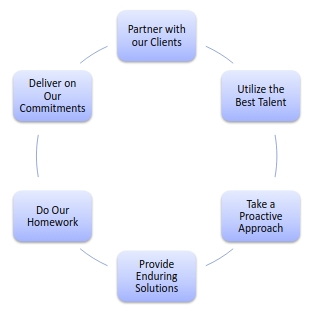
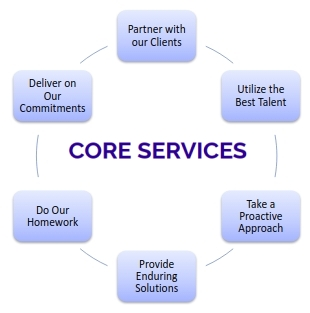
iteration2

Changed region(s): [[0.2032, 0.4313, 0.8129, 0.5176]]

diff --git a/home.html b/home.html
@@ -156,12 +156,7 @@
         <div class="container">
           <div class="section-header">
             <h2>Services</h2>
-            <p>
-              Sed tamen tempor magna labore dolore dolor sint tempor duis magna
-              elit veniam aliqua esse amet veniam enim export quid quid veniam
-              aliqua eram noster malis nulla duis fugiat culpa esse aute nulla
-              ipsum velit export irure minim illum fore
-            </p>
+            <p></p>
           </div>
 
           <div class="row">
@@ -185,20 +180,6 @@
                   Our PM services include Master Planning, full life-cycle of
                   Pre-Contract and Post-Contract planning, engineering, and
                   inspection for major design and construction projects.
-                </p>
-              </div>
-            </div>
-
-            <div class="col-lg-6">
-              <div class="box wow fadeInLeft" data-wow-delay="0.2s">
-                <div class="icon"><i class="fa fa-shopping-bag"></i></div>
-                <h4 class="title"><a href="">Construction Management</a></h4>
-                <p class="description">
-                  We provide high quality client representation for completion
-                  of projects on-time and within budget. We also work with
-                  leading-edge technologies for application of advanced
-                  information and communication technology to the project
-                  development industry.
                 </p>
               </div>
             </div>
@@ -228,90 +209,88 @@
                 </p>
               </div>
             </div>
+
+            <div class="col-lg-12">
+              <div class="box wow fadeInLeft" data-wow-delay="0.2s">
+                <div class="icon"><i class="fa fa-shopping-bag"></i></div>
+                <h4 class="title"><a href="">Construction Management</a></h4>
+                <p class="description">
+                  We provide high quality client representation for completion
+                  of projects on-time and within budget. We also work with
+                  leading-edge technologies for application of advanced
+                  information and communication technology to the project
+                  development industry.
+                </p>
+              </div>
+            </div>
+
           </div>
         </div>
       </section>
       <!-- #services -->
 
-      <!--==========================
-        Clients Section
-      ============================-->
-      <section id="clients" class="wow fadeInUp">
+      <section id="about" class="wow fadeInUp">
         <div class="container">
           <div class="section-header">
             <h2>We Offer</h2>
-            <p>
-              Sed tamen tempor magna labore dolore dolor sint tempor duis magna
-              elit veniam aliqua esse amet veniam enim export quid quid veniam
-              aliqua eram noster malis nulla duis fugiat culpa esse aute nulla
-              ipsum velit export irure minim illum fore
-            </p>
           </div>
-          <div class="content">
-            <ul style="list-style: none;">
-              <li>
-                <i
-                  class="ion-android-checkmark-circle"
-                  style="font-size: 20px;
-                padding-right: 4px;
-                color: #50d8af;"
-                ></i>
-                Development Management
-              </li>
-              <li>
-                <i
-                  class="ion-android-checkmark-circle"
-                  style="font-size: 20px;
-                padding-right: 4px;
-                color: #50d8af;"
-                ></i>
-                Engineering Solutions
-              </li>
-              <li>
-                <i
-                  class="ion-android-checkmark-circle"
-                  style="font-size: 20px;
-                padding-right: 4px;
-                color: #50d8af;"
-                ></i>
-                Construction Management
-              </li>
-              <li>
-                <i
-                  class="ion-android-checkmark-circle"
-                  style="font-size: 20px;
-                padding-right: 4px;
-                color: #50d8af;"
-                ></i>
-                Project Management
-              </li>
-              <li>
-                <i
-                  class="ion-android-checkmark-circle"
-                  style="font-size: 20px;
-                padding-right: 4px;
-                color: #50d8af;"
-                ></i>
-                Strategic Planning
-              </li>
-            </ul>
-          </div>
-        </div>
-      </section>
-      <!-- #clients -->
-
-      <!--==========================
-        Core Services Section
-      ============================-->
-      <section id="about" class="wow fadeInUp">
-        <div class="container">
           <div class="row">
             <div class="col-lg-6">
+              <div class="content">
+                <ul style="list-style: none;">
+                  <li>
+                    <i
+                      class="ion-android-checkmark-circle"
+                      style="font-size: 20px;
+                    padding-right: 4px;
+                    color: #50d8af;"
+                    ></i>
+                    Development Management
+                  </li>
+                  <li>
+                    <i
+                      class="ion-android-checkmark-circle"
+                      style="font-size: 20px;
+                    padding-right: 4px;
+                    color: #50d8af;"
+                    ></i>
+                    Engineering Solutions
+                  </li>
+                  <li>
+                    <i
+                      class="ion-android-checkmark-circle"
+                      style="font-size: 20px;
+                    padding-right: 4px;
+                    color: #50d8af;"
+                    ></i>
+                    Construction Management
+                  </li>
+                  <li>
+                    <i
+                      class="ion-android-checkmark-circle"
+                      style="font-size: 20px;
+                    padding-right: 4px;
+                    color: #50d8af;"
+                    ></i>
+                    Project Management
+                  </li>
+                  <li>
+                    <i
+                      class="ion-android-checkmark-circle"
+                      style="font-size: 20px;
+                    padding-right: 4px;
+                    color: #50d8af;"
+                    ></i>
+                    Strategic Planning
+                  </li>
+                </ul>
+              </div>
+              <br>
+              <hr size="15" style="border-color:#50d8af; width:30%; height:25px;">
               <img src="img/weoffer.jpg" alt="" width="90%" />
             </div>
 
             <div class="col-lg-6 content">
-              <h2>CORE SERVICES</h2>
               <h3 style="font-weight: 600;">
                 - Preparation of Project Feasibility studies and Business case
                 <br />- Pre - Contract works
@@ -379,29 +358,12 @@
         Our Portfolio Section
       ============================-->
       <section id="portfolio" class="wow fadeInUp">
-        <div class="container">
-          <div class="section-header">
-            <h2>Our Past Contribution</h2>
-            <p>
-              Sed tamen tempor magna labore dolore dolor sint tempor duis magna
-              elit veniam aliqua esse amet veniam enim export quid quid veniam
-              aliqua eram noster malis nulla duis fugiat culpa esse aute nulla
-              ipsum velit export irure minim illum fore
-            </p>
-          </div>
-        </div>
-
-        <div class="container-fluid">
+        <div class="container-fluid" style="opacity: 0.65;">
           <div class="row no-gutters">
             <div class="col-lg-3 col-md-4">
               <div class="portfolio-item wow fadeInUp">
                 <a href="img/portfolio/1.png" class="portfolio-popup">
                   <img src="img/portfolio/1.png" alt="" />
-                  <div class="portfolio-overlay">
-                    <div class="portfolio-info">
-                      <h2 class="wow fadeInUp">Portfolio Item 1</h2>
-                    </div>
-                  </div>
                 </a>
               </div>
             </div>
@@ -410,11 +372,6 @@
               <div class="portfolio-item wow fadeInUp">
                 <a href="img/portfolio/2.png" class="portfolio-popup">
                   <img src="img/portfolio/2.png" alt="" />
-                  <div class="portfolio-overlay">
-                    <div class="portfolio-info">
-                      <h2 class="wow fadeInUp">Portfolio Item 2</h2>
-                    </div>
-                  </div>
                 </a>
               </div>
             </div>
@@ -423,23 +380,13 @@
               <div class="portfolio-item wow fadeInUp">
                 <a href="img/portfolio/3.png" class="portfolio-popup">
                   <img src="img/portfolio/3.png" alt="" />
-                  <div class="portfolio-overlay">
-                    <div class="portfolio-info">
-                      <h2 class="wow fadeInUp">Portfolio Item 3</h2>
-                    </div>
-                  </div>
-                </a>
+               </a>
               </div>
             </div>
             <div class="col-lg-3 col-md-4">
               <div class="portfolio-item wow fadeInUp">
                 <a href="img/portfolio/5.png" class="portfolio-popup">
                   <img src="img/portfolio/5.png" alt="" />
-                  <div class="portfolio-overlay">
-                    <div class="portfolio-info">
-                      <h2 class="wow fadeInUp">Portfolio Item 5</h2>
-                    </div>
-                  </div>
                 </a>
               </div>
             </div>
@@ -451,7 +398,7 @@
       <!--==========================
         Call To Action Section
       ============================-->
-      <section id="call-to-action" class="wow fadeInUp">
+      <!--<section id="call-to-action" class="wow fadeInUp">
         <div class="container">
           <div class="row">
             <div class="col-lg-9 text-center text-lg-left">
@@ -469,7 +416,7 @@
           </div>
         </div>
       </section>
-      <!-- #call-to-action -->
+      #call-to-action -->
 
       <!--==========================
         Our Team Section
